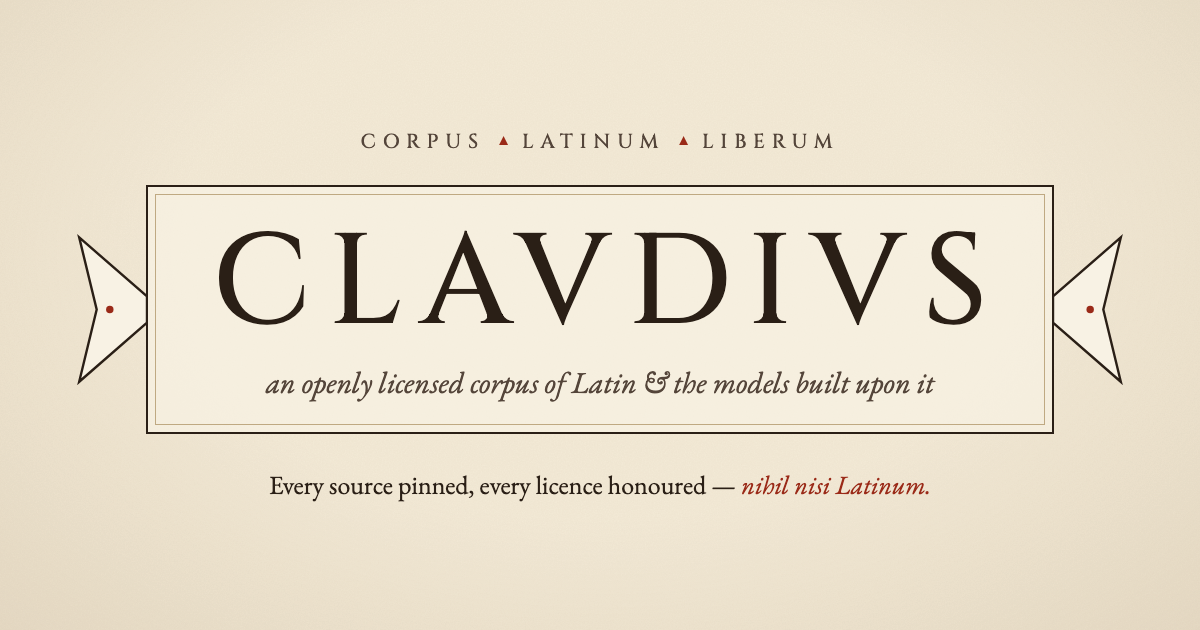
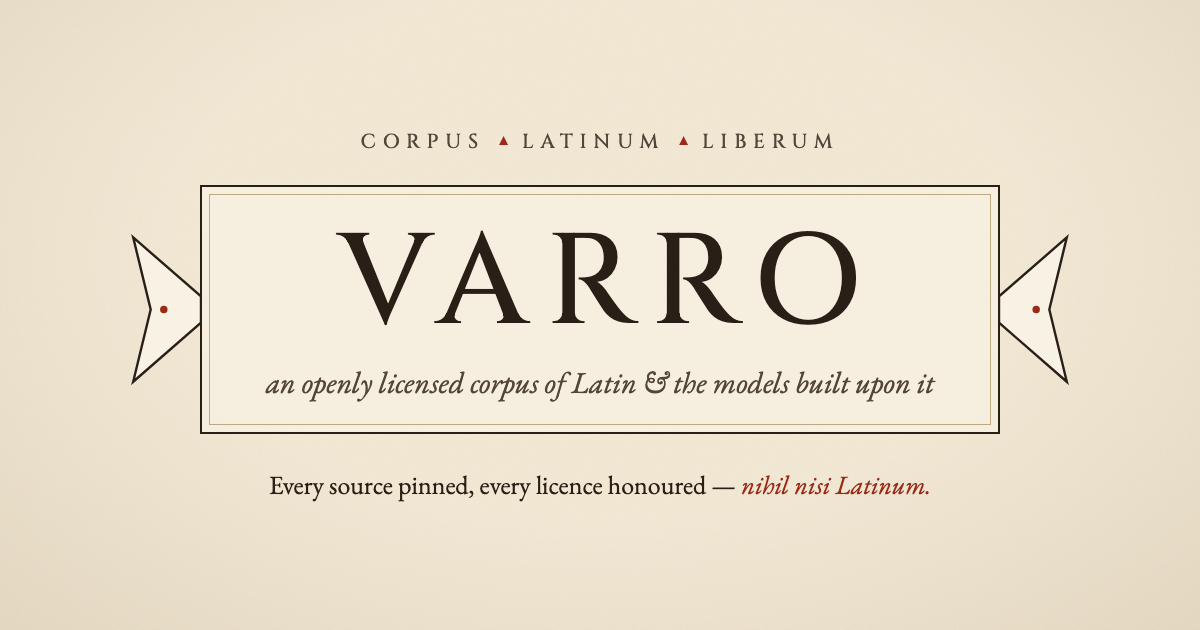
Rename the project from Claudius to Varro
Claudius read as a Claude derivative, which for a language-model project is a
confusion worth avoiding. Marcus Terentius Varro wrote De lingua Latina and
was charged by Caesar with gathering Rome's first public library, which is
closer to what this project does than an emperor ever was.

The project's name only. Authors and works that really are called Claudius or
Claudian stay as the manifest and reports record them, and links to
github.com/y-a-v-a/claudius stay until the repository itself is renamed —
GitHub redirects them afterwards.

On the site the margin note is rewritten rather than substituted, the favicon
and social image carry a V, and the theme preference key changes, so a
remembered theme resets once. New bundles declare model_type gpt-varro;
nothing reads that field. The LATIN-VII card and config already on Hugging
Face still say claudius until the bundle is regenerated and uploaded.

Claude-Session: https://claude.ai/code/session_01KdZE6EU7iiMbVq8qpcUrSg

diff --git a/site/index.html b/site/index.html
@@ -3,13 +3,13 @@
 <head>
   <meta charset="utf-8">
   <meta name="viewport" content="width=device-width, initial-scale=1">
-  <title>Claudius · Corpus Latinum</title>
+  <title>Varro · Corpus Latinum</title>
   <meta name="description" content="An openly licensed Latin corpus with a reproducible build pipeline, and language models trained from random initialisation on Latin alone.">
   <meta name="theme-color" content="#f3ead7" media="(prefers-color-scheme: light)">
   <meta name="theme-color" content="#1c1813" media="(prefers-color-scheme: dark)">
 
   <meta property="og:type" content="website">
-  <meta property="og:title" content="Claudius · Corpus Latinum">
+  <meta property="og:title" content="Varro · Corpus Latinum">
   <meta property="og:description" content="An openly licensed Latin corpus, a pipeline that honours every licence in it, and language models trained on Latin alone.">
   <meta property="og:image" content="/og.png">
   <meta name="twitter:card" content="summary_large_image">
@@ -28,7 +28,7 @@
 
   <header class="masthead">
     <div class="masthead__inner">
-      <a class="wordmark" href="#top" aria-label="Claudius, back to top">CLAVDIVS</a>
+      <a class="wordmark" href="#top" aria-label="Varro, back to top">VARRO</a>
       <nav class="nav" aria-label="Sections">
         <a href="#propositum"><span class="nav__num">I</span> Propositum</a>
         <a href="#via"><span class="nav__num">II</span> Via</a>
@@ -56,7 +56,7 @@
           <circle cx="30" cy="70" r="3.4" />
         </svg>
         <div class="tabula__field">
-          <h1 id="hero-title" aria-label="Claudius">CLAVDIVS</h1>
+          <h1 id="hero-title">VARRO</h1>
           <p class="tabula__sub">an openly licensed corpus of Latin<br>&amp; the models built upon it</p>
         </div>
         <svg class="tabula__ansa tabula__ansa--right" viewBox="0 0 64 140" aria-hidden="true" focusable="false">
@@ -103,7 +103,7 @@
             carelessly and the result is something nobody may redistribute and nobody can rebuild.
           </p>
           <p>
-            Claudius assembles one that can be both. Every source is declared in a manifest,
+            Varro assembles one that can be both. Every source is declared in a manifest,
             every version is pinned, and every licence is carried through to the corpus and on
             into the weights trained on it. <strong>The corpus is the first deliverable</strong>,
             and a contribution in its own right, independent of anything trained on it.
@@ -126,12 +126,13 @@
         <aside class="glossa" aria-label="Marginal note">
           <p class="glossa__mark" aria-hidden="true">¶</p>
           <p>
-            <span class="smallcaps">Tiberius Claudius</span>, emperor and antiquarian, added three
-            letters to the Latin alphabet — among them <span class="claudian" lang="la">Ⅎ</span>,
-            for the consonantal <em>u</em>. They did not outlive his reign.
+            <span class="smallcaps">Marcus Terentius Varro</span>, whom Quintilian called the most
+            learned of the Romans, wrote twenty-five books <cite lang="la">De lingua Latina</cite>.
+            Three of them argue whether its inflections follow rule or usage.
           </p>
           <p>
-            This corpus goes the other way, and folds every <em>v</em> into <em>u</em>.
+            Caesar charged him with gathering Rome's first public library. The plan died with
+            Caesar; the question of what may be collected, and for whom, did not.
           </p>
         </aside>
       </div>

diff --git a/docs/explainer.html b/docs/explainer.html
@@ -189,7 +189,7 @@
 <div class="page">
 
   <header>
-    <div class="label">Claudius · what the trained models actually are</div>
+    <div class="label">Varro · what the trained models actually are</div>
     <h1>Two models on disk</h1>
     <p class="lede">
       A trained language model is not a program. It is a file of numbers, plus a
@@ -226,7 +226,7 @@
     <div class="label">Why two</div>
     <h2>The difference is the licence, not the quality</h2>
     <p class="prose">
-      Claudius assembles Latin from sources with incompatible terms. Some may be
+      Varro assembles Latin from sources with incompatible terms. Some may be
       redistributed; some may be trained on but not passed along. Rather than
       average that into one uncomfortable answer, the corpus is built twice, and
       each corpus produces its own model.
@@ -571,7 +571,7 @@ python src/score.py --name latin-lii-latinitas --period-fit FILE</pre>
   </section>
 
   <footer>
-    <div>Claudius · an openly licensed Latin corpus, and a language model trained only on Latin.</div>
+    <div>Varro · an openly licensed Latin corpus, and a language model trained only on Latin.</div>
     <div>Figures read from the files described, 1 September 2026.</div>
   </footer>
 

diff --git a/site/app.js b/site/app.js
@@ -1,9 +1,9 @@
-/* Claudius — renders the page's figures from window.CLAUDIUS (site/data.js).
+/* Varro — renders the page's figures from window.VARRO (site/data.js).
    No dependencies. Every value that reaches the DOM goes through textContent. */
 (function () {
   "use strict";
 
-  var D = window.CLAUDIUS;
+  var D = window.VARRO;
   var SVGNS = "http://www.w3.org/2000/svg";
 
   // ------------------------------------------------------------------ helpers
@@ -170,7 +170,7 @@
     btn.addEventListener("click", function () {
       var next = current() === "dark" ? "light" : "dark";
       document.documentElement.setAttribute("data-theme", next);
-      try { localStorage.setItem("claudius-theme", next); } catch (e) { /* not remembered */ }
+      try { localStorage.setItem("varro-theme", next); } catch (e) { /* not remembered */ }
       label();
     });
     if (media && media.addEventListener) media.addEventListener("change", label);

diff --git a/site/styles.css b/site/styles.css
@@ -1,5 +1,5 @@
 /* ==========================================================================
-   Claudius — parchment by day, lamplight by night
+   Varro — parchment by day, lamplight by night
    ========================================================================== */
 
 :root {
@@ -267,7 +267,6 @@ main { max-width: var(--page); margin: 0 auto; padding: 0 var(--gutter); }
 }
 .glossa__mark { color: var(--rubric); font-size: 1.5em; line-height: 1; margin: 0 0 0.4rem; }
 .glossa--inline { margin-top: 1.5rem; }
-.claudian { font-family: "Segoe UI Symbol", "Noto Sans Symbols", "Cambria Math", var(--font-body); color: var(--rubric); font-style: normal; }
 
 /* ---------------------------------------------------------------- hero */
 

diff --git a/docs/capabilities.html b/docs/capabilities.html
@@ -183,7 +183,7 @@
 <div class="page">
 
   <header>
-    <div class="label">Claudius · what the model can and cannot do</div>
+    <div class="label">Varro · what the model can and cannot do</div>
     <h1>LATIN-XXV-2, measured</h1>
     <p class="lede">
       Every number here comes from a generated report, not a transcription. Where
@@ -373,7 +373,7 @@
   </section>
 
   <footer>
-    <div>Claudius · an openly licensed Latin corpus, and a language model trained only on Latin.</div>
+    <div>Varro · an openly licensed Latin corpus, and a language model trained only on Latin.</div>
     <div>All figures read from <code>reports/</code>, 23 August 2026.</div>
   </footer>
 </div>

diff --git a/docs/pipeline.html b/docs/pipeline.html
@@ -1,4 +1,4 @@
-<title>Claudius Pipeline</title>
+<title>Varro Pipeline</title>
 
 <style>
   :root {
@@ -1063,7 +1063,7 @@ aduentu rumint, pro se a me expetendo ad eum qui uenerit</pre>
   </section>
 
   <footer>
-    <div>Claudius · an openly licensed Latin corpus, and a language model trained only on Latin.</div>
+    <div>Varro · an openly licensed Latin corpus, and a language model trained only on Latin.</div>
     <div>Measured 19 August 2026 · 5 of 9 sources, through corpus, tokenizer, three trained models
       and an audit of every document.</div>
     <div>Every figure here is read from a generated report rather than transcribed by hand.</div>

diff --git a/demos/web/index.html b/demos/web/index.html
@@ -3,7 +3,7 @@
 <head>
 <meta charset="utf-8">
 <meta name="viewport" content="width=device-width, initial-scale=1">
-<title>Claudius &mdash; Latin instruments</title>
+<title>Varro &mdash; Latin instruments</title>
 <style>
 /* Served under Content-Security-Policy default-src 'self', so there are no
    webfonts and no CDN here by construction: system stacks only. The Latin
@@ -172,7 +172,7 @@ footer code { font-family: var(--mono); }
 <div class="wrap">
 
 <header>
-  <h1>Claudius <span>&mdash; Latin instruments</span></h1>
+  <h1>Varro <span>&mdash; Latin instruments</span></h1>
   <div id="meta">loading model&hellip;</div>
 </header>
 

diff --git a/site/tools/og.html b/site/tools/og.html
@@ -39,7 +39,7 @@
     <div class="tabula">
       <svg viewBox="0 0 64 140"><path d="M64 58 L64 82 L2 136 L18 70 L2 4 Z"/><circle cx="30" cy="70" r="3.4"/></svg>
       <div class="field">
-        <h1>CLAVDIVS</h1>
+        <h1>VARRO</h1>
         <p class="sub">an openly licensed corpus of Latin &amp; the models built upon it</p>
       </div>
       <svg viewBox="0 0 64 140"><path d="M0 58 L0 82 L62 136 L46 70 L62 4 Z"/><circle cx="34" cy="70" r="3.4"/></svg>

diff --git a/site/theme.js b/site/theme.js
@@ -1,7 +1,7 @@
 // Runs before first paint, so a remembered theme never flashes the other one.
 (function () {
   try {
-    var saved = localStorage.getItem("claudius-theme");
+    var saved = localStorage.getItem("varro-theme");
     if (saved === "light" || saved === "dark") {
       document.documentElement.setAttribute("data-theme", saved);
     }

diff --git a/site/data.js b/site/data.js
@@ -1,5 +1,5 @@
 // Generated by site/tools/sync.py — do not edit by hand.
-window.CLAUDIUS = {
+window.VARRO = {
  "repo": "https://github.com/y-a-v-a/claudius",
  "attribution_generated": "2026-09-06",
  "reports_generated": "2026-09-01",

diff --git a/src/bundle.py b/src/bundle.py
@@ -73,7 +73,7 @@ RESEARCH_LICENSE_IDS = {
 
 REDISTRIBUTION_NOTICE = """# Do not redistribute
 
-These weights were trained on the claudius **Track B** corpus, which includes
+These weights were trained on the Varro **Track B** corpus, which includes
 NonCommercial sources. They are a research artifact: publishable as results,
 not as a download.
 
@@ -266,7 +266,7 @@ def write_config(out: Path, name: str, train_report: Dict[str, Any],
     tok = json.loads(tokenizer_path.read_text(encoding="utf-8"))
     ppl = train_report["final"]["val_perplexity"]
     config = {
-        "model_type": "gpt-claudius",
+        "model_type": "gpt-varro",
         "architecture": ("decoder-only transformer, pre-norm, tied embeddings, "
                          "learned positions"),
         "vocab_size": cfg["vocab"],

diff --git a/site/tools/sync.py b/site/tools/sync.py
@@ -40,7 +40,7 @@ ROOT = SITE.parent
 OUT = SITE / "data.js"
 
 REPO_URL = "https://github.com/y-a-v-a/claudius"
-PREFIX = "// Generated by site/tools/sync.py — do not edit by hand.\nwindow.CLAUDIUS = "
+PREFIX = "// Generated by site/tools/sync.py — do not edit by hand.\nwindow.VARRO = "
 
 # Which attribution notice describes which corpus.
 ATTRIBUTIONS = {
@@ -329,7 +329,7 @@ def read_previous() -> dict | None:
     if not OUT.exists():
         return None
     text = OUT.read_text(encoding="utf-8")
-    body = text.split("window.CLAUDIUS = ", 1)[-1].rstrip().rstrip(";")
+    body = text.split("window.VARRO = ", 1)[-1].rstrip().rstrip(";")
     try:
         return json.loads(body)
     except json.JSONDecodeError:
